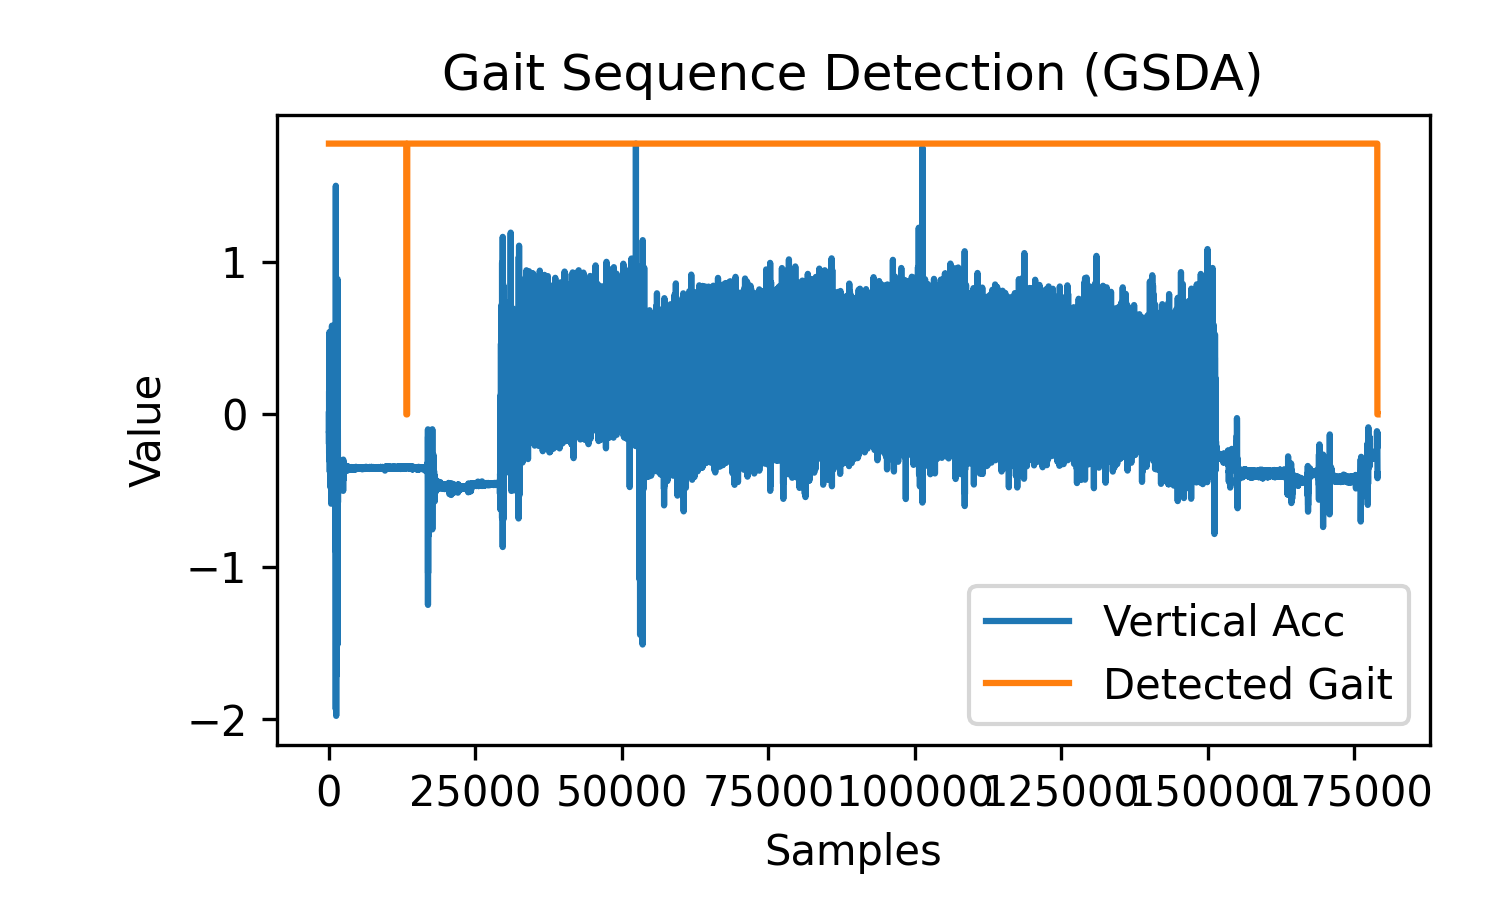
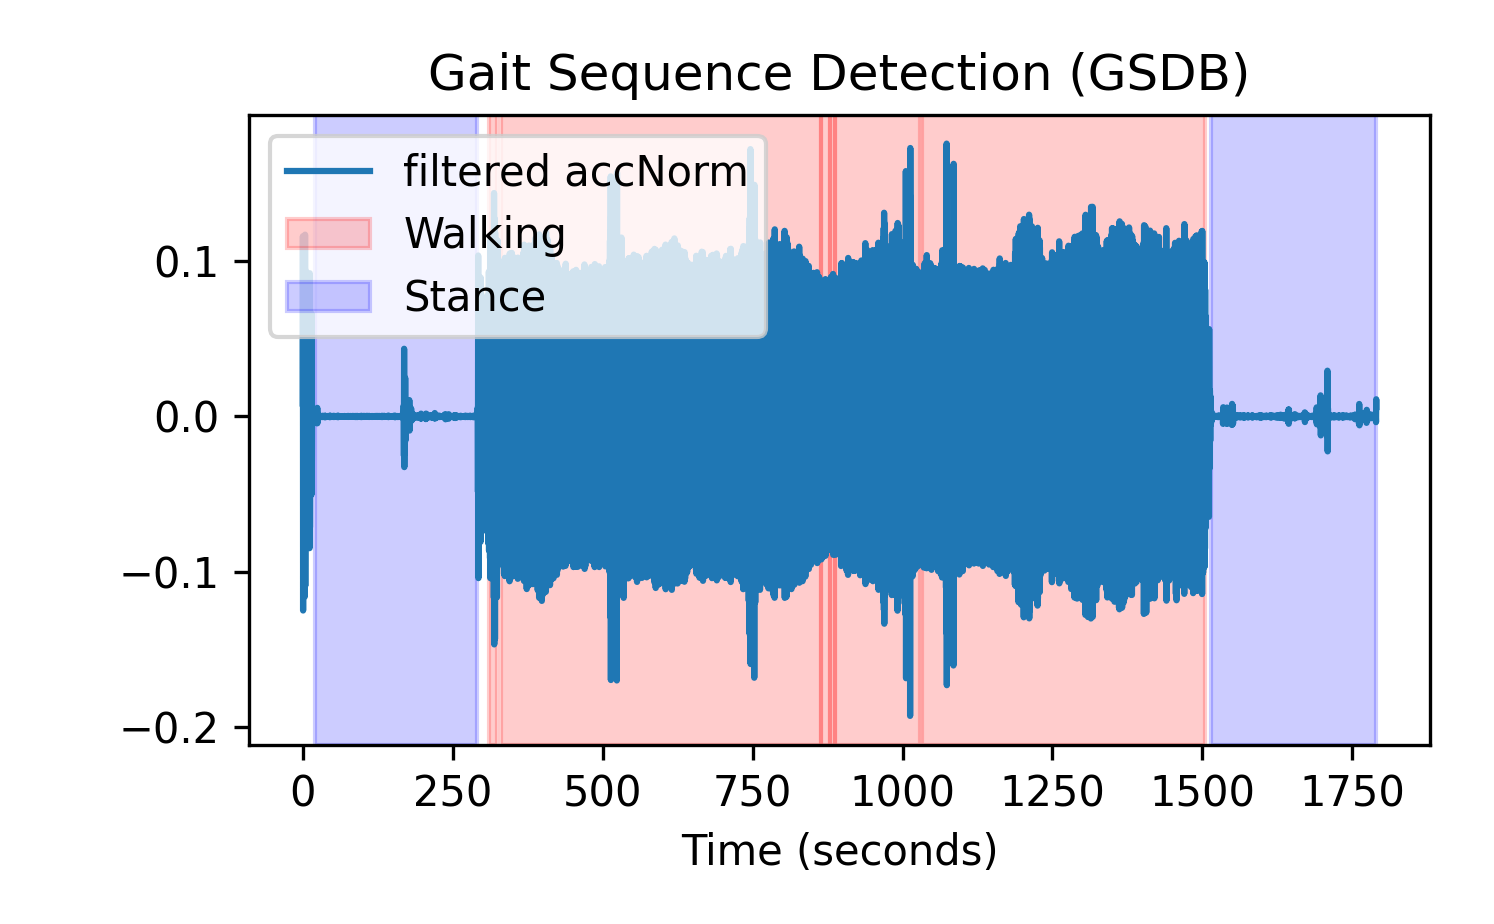
updated gsdb plot to use shading instead of line, added stance sequences to plot

diff --git a/Main/GSD_plots.py b/Main/GSD_plots.py
@@ -31,29 +31,40 @@ def plot_GSDA(gait_bool, v_acc, plot_frame):
 
     return fig
 
-def plot_GSDB(sig_det_actv, walk_label, plot_frame):
+def plot_GSDB(sig_det_actv, walk_label, stance_sequences, gsd_result, plot_frame):
     for w in plot_frame.winfo_children():
         w.destroy()
-    
-    # build the figure
+
     fig = Figure(figsize=(3.5, 3), dpi=100)
     ax = fig.add_subplot(111)
-    
-    # Create time axis for proper scaling
-    time_axis = np.arange(len(sig_det_actv)) / 40.0  # 40Hz sampling rate
-    
+
+    time_axis = np.arange(len(sig_det_actv)) / 40.0
+
     ax.plot(time_axis, sig_det_actv, label='filtered accNorm')
-    ax.plot(time_axis, walk_label, 'r', linewidth=2, label='Walking')
+
+    for i, seq in enumerate(gsd_result):
+        ax.axvspan(
+            seq['Start'], seq['End'],
+            alpha=0.2, color='red',
+            label='Walking' if i == 0 else None
+        )
+
+    for i, seq in enumerate(stance_sequences):
+        ax.axvspan(
+            seq['Start'], seq['End'],
+            alpha=0.2, color='blue',
+            label='Stance' if i == 0 else None
+        )
+
     ax.set_xlabel('Time (seconds)')
     ax.set_title("Gait Sequence Detection (GSDB)")
-    ax.legend()
+    ax.legend(loc='upper left')
     fig.tight_layout()
-    
-    # embed into Tk frame
+
     canvas = FigureCanvasTkAgg(fig, master=plot_frame)
     canvas.draw()
     canvas.get_tk_widget().pack(fill='both', expand=True)
-    
+
     return fig
 
 def plot_steps(GS, fs, acc_v, plot_frame):

diff --git a/Main/GUI_Tabs/Tab2/Tab2Controller.py b/Main/GUI_Tabs/Tab2/Tab2Controller.py
@@ -180,9 +180,9 @@ class Tab2Controller:
         return gsd_result, v_acc_for_plot
 
     def _run_GSDB(self, acc, fs, original_time_array, extra_plots=0):
-        gsd_result, sig_det_act_for_plot, walk_label_for_plot = gsd_low_back_acc(acc, fs, plot_results=False, time_vector=original_time_array, force_walking=self.force_data_as_walking, extra_plots=extra_plots)
+        gsd_result, sig_det_act_for_plot, walk_label_for_plot, stance_sequences = gsd_low_back_acc(acc, fs, plot_results=False, time_vector=original_time_array, force_walking=self.force_data_as_walking, extra_plots=extra_plots)
         v_acc_for_plot = np.linalg.norm(acc, axis=1)
-        self.gsd_plot = plot_GSDB(sig_det_act_for_plot, walk_label_for_plot, self.left_frame)
+        self.gsd_plot = plot_GSDB(sig_det_act_for_plot, walk_label_for_plot, stance_sequences, gsd_result, self.left_frame)
         long_segments = filter_and_print_long_segments(gsd_result, original_time_array=original_time_array)
         return gsd_result, v_acc_for_plot
 

diff --git a/Main/GSDB_code.py b/Main/GSDB_code.py
@@ -379,7 +379,7 @@ def gsd_low_back_acc(imu_acc, fs, plot_results=False, time_vector=None, force_wa
                 print("No gait sequence(s) detected")
 
     #stance sequences
-    stance_sequences = find_stance_sequences(GSD_Output, algorithm_target_fs, acc)
+    stance_sequences = find_stance_sequences(GSD_Output, fs, acc)
     print("stance sequences:", stance_sequences)
 
     if plot_results:
@@ -389,7 +389,7 @@ def gsd_low_back_acc(imu_acc, fs, plot_results=False, time_vector=None, force_wa
         plt.xlabel('samples (40Hz)')
         plt.show()
 
-    return GSD_Output, sig_det_actv, walk_label
+    return GSD_Output, sig_det_actv, walk_label, stance_sequences
 
 
 def find_stance_sequences(gait_sequences, fs, acceleration):
